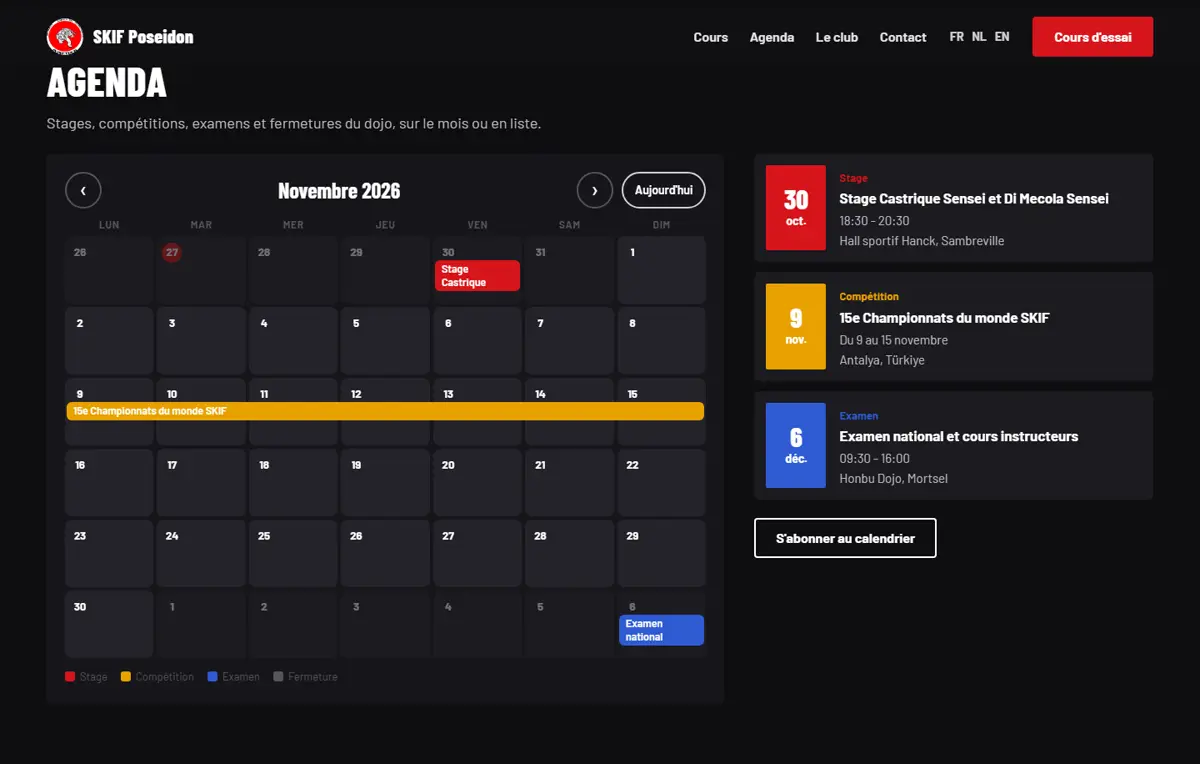
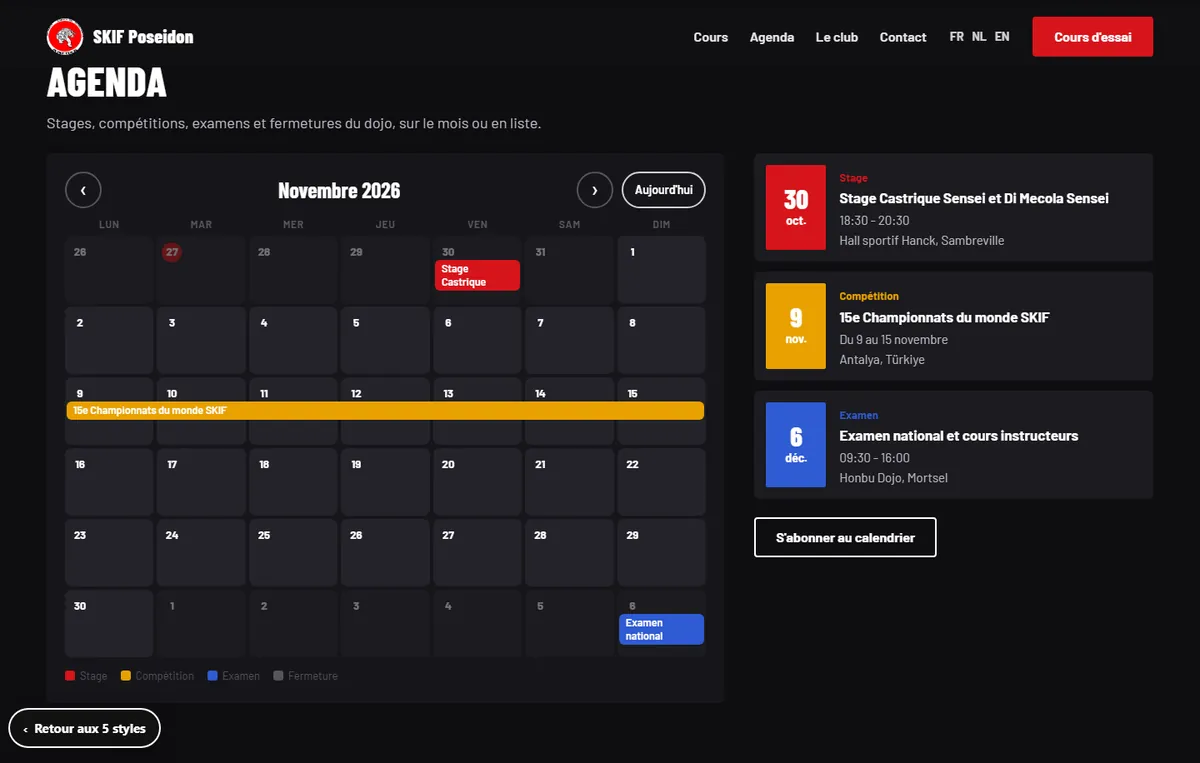
fix(mockups): back button, real mobile width, clearer choice question

diff --git a/maquettes/d.html b/maquettes/d.html
@@ -6,7 +6,8 @@ body{margin:0;background:var(--bg);color:var(--text);font-family:var(--body);fon
 img{max-width:100%;display:block}
 a{color:inherit}
 .wrap{width:100%;max-width:1440px;margin:0 auto;padding-inline:clamp(16px,4vw,56px)}
-.mock-tag{position:fixed;z-index:50;left:12px;bottom:12px;background:#111;color:#fff;font:600 12px/1 system-ui;padding:8px 10px;border-radius:6px;opacity:.85}
+.back{position:fixed;z-index:50;left:12px;bottom:12px;display:inline-flex;align-items:center;gap:8px;min-height:44px;padding:0 16px;border-radius:999px;background:#111;color:#fff;font:700 15px/1 system-ui,sans-serif;text-decoration:none;box-shadow:0 0 0 2px #fff,0 8px 24px rgba(0,0,0,.35)}
+.back:hover{background:#000}@media (max-width:640px){.back{left:8px;bottom:8px;padding:0 12px;font-size:13px}.back .long{display:none}}.back:focus-visible{outline:3px solid #ffcf5a;outline-offset:3px}
 /* nav */
 .nav{position:sticky;top:0;z-index:20;background:var(--nav-bg);color:var(--nav-text);backdrop-filter:saturate(1.4) blur(10px)}
 .nav .wrap{display:flex;align-items:center;gap:28px;height:72px}
@@ -16,6 +17,7 @@ a{color:inherit}
 @media (max-width:640px){.brand{font-size:18px;gap:8px}.brand img{width:38px;height:38px}.nav .wrap{gap:12px;height:64px}.nav .btn{min-height:44px;padding:0 16px;font-size:15px}}
 .links{display:flex;gap:26px;margin-left:auto;font-weight:600;font-size:16px}
 .links a{display:inline-flex;align-items:center;min-height:44px;text-decoration:none;opacity:.9}.links a:hover{opacity:1;text-decoration:underline;text-underline-offset:6px}
+@media (max-width:900px){.links{display:none}.langs{margin-left:auto}}
 .langs{display:flex;gap:10px;font-size:14px;font-weight:700;opacity:.8}
 .btn{display:inline-flex;align-items:center;justify-content:center;min-height:48px;padding:0 24px;border-radius:var(--radius-btn);font-weight:700;font-size:16px;text-decoration:none;border:2px solid transparent;white-space:nowrap;transition:transform .15s}
 .btn:active{transform:translateY(1px)}
@@ -48,7 +50,8 @@ h2{font-family:var(--display);font-size:clamp(30px,3.4vw,52px);line-height:1.04;
 .legend i{display:inline-block;width:14px;height:14px;border-radius:4px;margin-right:6px;vertical-align:-2px}
 @media (max-width:1180px){.week{grid-template-columns:repeat(3,minmax(0,1fr))}}
 @media (max-width:760px){
-  .chips{flex-direction:column;align-items:stretch}
+  .chips{flex-direction:column;flex-wrap:nowrap;align-items:stretch}
+  .chip-row{min-width:0;max-width:calc(100% + 2 * clamp(16px,4vw,56px))}
   .chip-row{flex-wrap:nowrap;overflow-x:auto;scrollbar-width:none;margin-inline:calc(-1 * clamp(16px,4vw,56px));padding-inline:clamp(16px,4vw,56px)}
   .week{grid-template-columns:1fr;gap:10px}
   .day{padding:12px 14px;gap:6px}
@@ -144,9 +147,10 @@ footer .wrap{display:flex;flex-wrap:wrap;gap:24px 60px;justify-content:space-bet
 .hero .ink::after{content:"";position:absolute;right:-18px;bottom:-18px;width:86px;height:86px;border-radius:50%;background:#c8102e;mix-blend-mode:multiply}
 .hero .tate{writing-mode:vertical-rl;font-size:clamp(40px,min(4.4vw,8vh),72px);font-weight:900;letter-spacing:.15em;line-height:1;margin:0;color:#1c1c1c}
 @media (max-width:900px){.hero .wrap{grid-template-columns:1fr}.hero .tate{display:none}}
+@media (max-width:640px){.hero{padding-top:22px;padding-bottom:20px}.hero p{margin-bottom:18px}.hero .btn-row{margin-top:0}.hero .btn{padding:0 18px}.hero .ink img{aspect-ratio:16/9;max-height:24vh}.hero .ink::after{width:56px;height:56px;right:-10px;bottom:-10px}}
 .day,.calendar,.event{border:1px solid #1c1c1c}
 </style></head>
-<body><header class="nav"><div class="wrap"><a class="brand" href="#"><img src="img/logo-poseidon-320.webp" alt="">SKIF Poseidon</a>
+<body><a class="back" href="index.html"><span aria-hidden="true">&lsaquo;</span><span>Retour<span class="long"> aux 5 styles</span></span></a><header class="nav"><div class="wrap"><a class="brand" href="#"><img src="img/logo-poseidon-320.webp" alt="">SKIF Poseidon</a>
 <nav class="links"><a href="#cours">Cours</a><a href="#agenda">Agenda</a><a href="#">Le club</a><a href="#">Contact</a></nav>
 <div class="langs"><span>FR</span><span>NL</span><span>EN</span></div><a class="btn btn-primary" href="#">Cours d'essai</a></div></header><section class="hero"><div class="wrap"><div><h1>Karaté Shotokan à Woluwe</h1>
 <p>Le karaté traditionnel de la SKIF, enseigné au complexe Poseidon. Enfants dès 6 ans, ados et adultes.</p>

diff --git a/maquettes/index.html b/maquettes/index.html
@@ -9,6 +9,7 @@ header p{font-size:clamp(18px,1.6vw,21px);max-width:62ch;margin:0;color:#d6d8dd}
 .steps{display:flex;flex-wrap:wrap;gap:12px;margin-top:26px;padding:0;list-style:none}
 .steps li{background:#262a30;border-radius:14px;padding:12px 18px;font-size:17px}
 .steps b{color:#ffcf5a;margin-right:6px}
+.ask{background:#15171a;color:#fff;border-radius:22px;padding:clamp(22px,4vw,40px);margin:28px 0}.ask h2{margin:0 0 8px;font-size:clamp(26px,3vw,38px)}.ask p{margin:0;color:#d6d8dd;max-width:62ch}
 .same{background:#fff;border-radius:18px;padding:18px 22px;margin:28px 0 8px;font-size:17px}
 .card{background:#fff;border-radius:22px;margin:28px 0;overflow:hidden;box-shadow:0 18px 40px -30px rgba(0,0,0,.4)}
 .card-head{display:flex;flex-wrap:wrap;align-items:center;gap:14px 24px;padding:22px clamp(18px,3vw,32px)}
@@ -34,8 +35,8 @@ footer{padding:40px 0 60px;color:#4a4f57}
 </style></head><body>
 <header><div class="wrap"><h1>Choisissez le style du nouveau site</h1>
 <p>Cinq univers pour le site du SKIF Poseidon. Regardez les images, ouvrez les maquettes sur votre téléphone, puis dites-nous votre préféré.</p>
-<ol class="steps"><li><b>1</b>Regardez les cinq univers</li><li><b>2</b>Ouvrez celui qui vous plaît</li><li><b>3</b>Envoyez la lettre à Mohamad</li></ol></div></header>
-<main class="wrap"><p class="same"><strong>Dans les cinq univers :</strong> le même contenu, la grille des cours filtrable par âge, l'agenda du mois, le cours d'essai, les trois langues et l'adaptation au téléphone. Seuls les couleurs, la typographie et l'ambiance changent. On peut aussi mélanger (par exemple les couleurs de B avec les titres de A).</p>
+<ol class="steps"><li><b>1</b>Regardez les cinq univers</li><li><b>2</b>Ouvrez celui qui vous plaît</li><li><b>3</b>Dites-nous quelle maquette vous préférez</li></ol></div></header>
+<main class="wrap"><p class="same"><strong>Dans les cinq univers :</strong> le même contenu, la grille des cours filtrable par âge, l'agenda du mois, le cours d'essai, les trois langues et l'adaptation au téléphone. Seuls les couleurs, la typographie et l'ambiance changent. On peut aussi mélanger (par exemple les couleurs de B avec les titres de A). Les photos sont placées au hasard pour l'instant : dites-nous lesquelles vous préférez, tout peut être changé.</p>
 <article class="card" style="--c:#d7141a" id="a">
 <div class="card-head"><div class="letter">A</div><div class="title"><h2>Rouge Poseidon</h2><p>Énergique, comme une affiche de compétition. Grande photo, rouge et noir.</p></div>
 <div><div class="swatches" aria-label="Couleurs"><span style="background:#d7141a" title="#d7141a"></span><span style="background:#16161a" title="#16161a"></span><span style="background:#ffffff" title="#ffffff"></span><span style="background:#e8a100" title="#e8a100"></span><span style="background:#0f8a6c" title="#0f8a6c"></span></div><div class="font">Police : Barlow Condensed</div></div></div>
@@ -66,5 +67,6 @@ footer{padding:40px 0 60px;color:#4a4f57}
 <div class="shots"><img src="shots/e-ecran.webp" alt="Univers E, premier écran sur ordinateur" loading="lazy"><div class="phone"><img src="shots/e-mobile.webp" alt="Univers E sur téléphone" loading="lazy"></div></div>
 <div class="more"><figure><img src="shots/e-cours.webp" alt="Grille de la semaine, univers E" loading="lazy"><figcaption>La semaine des cours, filtrable par âge</figcaption></figure>
 <figure><img src="shots/e-agenda.webp" alt="Agenda du mois, univers E" loading="lazy"><figcaption>L'agenda du mois et les prochains rendez-vous</figcaption></figure></div>
-<div class="actions"><a class="btn" href="e.html">Essayer la maquette E</a></div></article></main>
+<div class="actions"><a class="btn" href="e.html">Essayer la maquette E</a></div></article>
+<section class="ask"><h2>Quelle maquette préférez-vous ?</h2><p>Répondez simplement avec la lettre (A, B, C, D ou E). Dites-nous aussi ce que vous aimez ou pas : les couleurs, les titres, les photos. On peut tout ajuster.</p></section></main>
 <footer><div class="wrap">Maquettes de démonstration. Horaires publiés par SKIF Belgium, à confirmer par le club. Photos : site du club SKIF Poseidon.</div></footer></body></html>

diff --git a/maquettes/a.html b/maquettes/a.html
@@ -6,7 +6,8 @@ body{margin:0;background:var(--bg);color:var(--text);font-family:var(--body);fon
 img{max-width:100%;display:block}
 a{color:inherit}
 .wrap{width:100%;max-width:1440px;margin:0 auto;padding-inline:clamp(16px,4vw,56px)}
-.mock-tag{position:fixed;z-index:50;left:12px;bottom:12px;background:#111;color:#fff;font:600 12px/1 system-ui;padding:8px 10px;border-radius:6px;opacity:.85}
+.back{position:fixed;z-index:50;left:12px;bottom:12px;display:inline-flex;align-items:center;gap:8px;min-height:44px;padding:0 16px;border-radius:999px;background:#111;color:#fff;font:700 15px/1 system-ui,sans-serif;text-decoration:none;box-shadow:0 0 0 2px #fff,0 8px 24px rgba(0,0,0,.35)}
+.back:hover{background:#000}@media (max-width:640px){.back{left:8px;bottom:8px;padding:0 12px;font-size:13px}.back .long{display:none}}.back:focus-visible{outline:3px solid #ffcf5a;outline-offset:3px}
 /* nav */
 .nav{position:sticky;top:0;z-index:20;background:var(--nav-bg);color:var(--nav-text);backdrop-filter:saturate(1.4) blur(10px)}
 .nav .wrap{display:flex;align-items:center;gap:28px;height:72px}
@@ -16,6 +17,7 @@ a{color:inherit}
 @media (max-width:640px){.brand{font-size:18px;gap:8px}.brand img{width:38px;height:38px}.nav .wrap{gap:12px;height:64px}.nav .btn{min-height:44px;padding:0 16px;font-size:15px}}
 .links{display:flex;gap:26px;margin-left:auto;font-weight:600;font-size:16px}
 .links a{display:inline-flex;align-items:center;min-height:44px;text-decoration:none;opacity:.9}.links a:hover{opacity:1;text-decoration:underline;text-underline-offset:6px}
+@media (max-width:900px){.links{display:none}.langs{margin-left:auto}}
 .langs{display:flex;gap:10px;font-size:14px;font-weight:700;opacity:.8}
 .btn{display:inline-flex;align-items:center;justify-content:center;min-height:48px;padding:0 24px;border-radius:var(--radius-btn);font-weight:700;font-size:16px;text-decoration:none;border:2px solid transparent;white-space:nowrap;transition:transform .15s}
 .btn:active{transform:translateY(1px)}
@@ -48,7 +50,8 @@ h2{font-family:var(--display);font-size:clamp(30px,3.4vw,52px);line-height:1.04;
 .legend i{display:inline-block;width:14px;height:14px;border-radius:4px;margin-right:6px;vertical-align:-2px}
 @media (max-width:1180px){.week{grid-template-columns:repeat(3,minmax(0,1fr))}}
 @media (max-width:760px){
-  .chips{flex-direction:column;align-items:stretch}
+  .chips{flex-direction:column;flex-wrap:nowrap;align-items:stretch}
+  .chip-row{min-width:0;max-width:calc(100% + 2 * clamp(16px,4vw,56px))}
   .chip-row{flex-wrap:nowrap;overflow-x:auto;scrollbar-width:none;margin-inline:calc(-1 * clamp(16px,4vw,56px));padding-inline:clamp(16px,4vw,56px)}
   .week{grid-template-columns:1fr;gap:10px}
   .day{padding:12px 14px;gap:6px}
@@ -148,7 +151,7 @@ footer .wrap{display:flex;flex-wrap:wrap;gap:24px 60px;justify-content:space-bet
 @media (max-width:760px){.next{position:static;margin:18px 0 0}.hero{min-height:auto;padding-top:120px}}
 .sec-agenda{background:#0e0e11;color:#fff}.sec-agenda .lead{color:#b9b9c2}.sec-agenda .event{background:#1b1b20}.sec-agenda .event p{color:#b9b9c2}.sec-agenda .btn-ghost{color:#fff}
 </style></head>
-<body><header class="nav"><div class="wrap"><a class="brand" href="#"><img src="img/logo-poseidon-320.webp" alt="">SKIF Poseidon</a>
+<body><a class="back" href="index.html"><span aria-hidden="true">&lsaquo;</span><span>Retour<span class="long"> aux 5 styles</span></span></a><header class="nav"><div class="wrap"><a class="brand" href="#"><img src="img/logo-poseidon-320.webp" alt="">SKIF Poseidon</a>
 <nav class="links"><a href="#cours">Cours</a><a href="#agenda">Agenda</a><a href="#">Le club</a><a href="#">Contact</a></nav>
 <div class="langs"><span>FR</span><span>NL</span><span>EN</span></div><a class="btn btn-primary" href="#">Cours d'essai</a></div></header><section class="hero"><img src="img/dojo-kamiza-1600.webp" alt="Trois ceintures noires du dojo Poseidon devant le kamiza"><div class="wrap">
 <h1>Karaté Shotokan <span>à Woluwe</span></h1><p>Le karaté traditionnel de la SKIF, pour les enfants dès 6 ans, les ados et les adultes. Du premier cours à la ceinture noire.</p>

diff --git a/maquettes/b.html b/maquettes/b.html
@@ -6,7 +6,8 @@ body{margin:0;background:var(--bg);color:var(--text);font-family:var(--body);fon
 img{max-width:100%;display:block}
 a{color:inherit}
 .wrap{width:100%;max-width:1440px;margin:0 auto;padding-inline:clamp(16px,4vw,56px)}
-.mock-tag{position:fixed;z-index:50;left:12px;bottom:12px;background:#111;color:#fff;font:600 12px/1 system-ui;padding:8px 10px;border-radius:6px;opacity:.85}
+.back{position:fixed;z-index:50;left:12px;bottom:12px;display:inline-flex;align-items:center;gap:8px;min-height:44px;padding:0 16px;border-radius:999px;background:#111;color:#fff;font:700 15px/1 system-ui,sans-serif;text-decoration:none;box-shadow:0 0 0 2px #fff,0 8px 24px rgba(0,0,0,.35)}
+.back:hover{background:#000}@media (max-width:640px){.back{left:8px;bottom:8px;padding:0 12px;font-size:13px}.back .long{display:none}}.back:focus-visible{outline:3px solid #ffcf5a;outline-offset:3px}
 /* nav */
 .nav{position:sticky;top:0;z-index:20;background:var(--nav-bg);color:var(--nav-text);backdrop-filter:saturate(1.4) blur(10px)}
 .nav .wrap{display:flex;align-items:center;gap:28px;height:72px}
@@ -16,6 +17,7 @@ a{color:inherit}
 @media (max-width:640px){.brand{font-size:18px;gap:8px}.brand img{width:38px;height:38px}.nav .wrap{gap:12px;height:64px}.nav .btn{min-height:44px;padding:0 16px;font-size:15px}}
 .links{display:flex;gap:26px;margin-left:auto;font-weight:600;font-size:16px}
 .links a{display:inline-flex;align-items:center;min-height:44px;text-decoration:none;opacity:.9}.links a:hover{opacity:1;text-decoration:underline;text-underline-offset:6px}
+@media (max-width:900px){.links{display:none}.langs{margin-left:auto}}
 .langs{display:flex;gap:10px;font-size:14px;font-weight:700;opacity:.8}
 .btn{display:inline-flex;align-items:center;justify-content:center;min-height:48px;padding:0 24px;border-radius:var(--radius-btn);font-weight:700;font-size:16px;text-decoration:none;border:2px solid transparent;white-space:nowrap;transition:transform .15s}
 .btn:active{transform:translateY(1px)}
@@ -48,7 +50,8 @@ h2{font-family:var(--display);font-size:clamp(30px,3.4vw,52px);line-height:1.04;
 .legend i{display:inline-block;width:14px;height:14px;border-radius:4px;margin-right:6px;vertical-align:-2px}
 @media (max-width:1180px){.week{grid-template-columns:repeat(3,minmax(0,1fr))}}
 @media (max-width:760px){
-  .chips{flex-direction:column;align-items:stretch}
+  .chips{flex-direction:column;flex-wrap:nowrap;align-items:stretch}
+  .chip-row{min-width:0;max-width:calc(100% + 2 * clamp(16px,4vw,56px))}
   .chip-row{flex-wrap:nowrap;overflow-x:auto;scrollbar-width:none;margin-inline:calc(-1 * clamp(16px,4vw,56px));padding-inline:clamp(16px,4vw,56px)}
   .week{grid-template-columns:1fr;gap:10px}
   .day{padding:12px 14px;gap:6px}
@@ -144,7 +147,7 @@ footer .wrap{display:flex;flex-wrap:wrap;gap:24px 60px;justify-content:space-bet
 @media (max-width:860px){.hero{grid-template-columns:1fr;max-height:none}.hero .photo{min-height:200px;max-height:220px;order:-1}.hero .text::after{display:none}.hero .kanji{display:none}.hero .text{padding-block:24px 76px}}
 .sec-agenda{background:#1c2850;color:#f3f1ec}.sec-agenda .lead{color:#c3c9de}.sec-agenda .btn-ghost{color:#fff}.sec-agenda .calendar{color:#141b33}
 </style></head>
-<body><header class="nav"><div class="wrap"><a class="brand" href="#"><img src="img/logo-poseidon-320.webp" alt="">SKIF Poseidon</a>
+<body><a class="back" href="index.html"><span aria-hidden="true">&lsaquo;</span><span>Retour<span class="long"> aux 5 styles</span></span></a><header class="nav"><div class="wrap"><a class="brand" href="#"><img src="img/logo-poseidon-320.webp" alt="">SKIF Poseidon</a>
 <nav class="links"><a href="#cours">Cours</a><a href="#agenda">Agenda</a><a href="#">Le club</a><a href="#">Contact</a></nav>
 <div class="langs"><span>FR</span><span>NL</span><span>EN</span></div><a class="btn btn-primary" href="#">Cours d'essai</a></div></header><section class="hero"><div class="text"><h1>Karaté Shotokan à Woluwe</h1>
 <p>Le karaté traditionnel de la SKIF, enseigné au complexe Poseidon. Enfants dès 6 ans, ados et adultes, du premier cours à la ceinture noire.</p>

diff --git a/maquettes/e.html b/maquettes/e.html
@@ -6,7 +6,8 @@ body{margin:0;background:var(--bg);color:var(--text);font-family:var(--body);fon
 img{max-width:100%;display:block}
 a{color:inherit}
 .wrap{width:100%;max-width:1440px;margin:0 auto;padding-inline:clamp(16px,4vw,56px)}
-.mock-tag{position:fixed;z-index:50;left:12px;bottom:12px;background:#111;color:#fff;font:600 12px/1 system-ui;padding:8px 10px;border-radius:6px;opacity:.85}
+.back{position:fixed;z-index:50;left:12px;bottom:12px;display:inline-flex;align-items:center;gap:8px;min-height:44px;padding:0 16px;border-radius:999px;background:#111;color:#fff;font:700 15px/1 system-ui,sans-serif;text-decoration:none;box-shadow:0 0 0 2px #fff,0 8px 24px rgba(0,0,0,.35)}
+.back:hover{background:#000}@media (max-width:640px){.back{left:8px;bottom:8px;padding:0 12px;font-size:13px}.back .long{display:none}}.back:focus-visible{outline:3px solid #ffcf5a;outline-offset:3px}
 /* nav */
 .nav{position:sticky;top:0;z-index:20;background:var(--nav-bg);color:var(--nav-text);backdrop-filter:saturate(1.4) blur(10px)}
 .nav .wrap{display:flex;align-items:center;gap:28px;height:72px}
@@ -16,6 +17,7 @@ a{color:inherit}
 @media (max-width:640px){.brand{font-size:18px;gap:8px}.brand img{width:38px;height:38px}.nav .wrap{gap:12px;height:64px}.nav .btn{min-height:44px;padding:0 16px;font-size:15px}}
 .links{display:flex;gap:26px;margin-left:auto;font-weight:600;font-size:16px}
 .links a{display:inline-flex;align-items:center;min-height:44px;text-decoration:none;opacity:.9}.links a:hover{opacity:1;text-decoration:underline;text-underline-offset:6px}
+@media (max-width:900px){.links{display:none}.langs{margin-left:auto}}
 .langs{display:flex;gap:10px;font-size:14px;font-weight:700;opacity:.8}
 .btn{display:inline-flex;align-items:center;justify-content:center;min-height:48px;padding:0 24px;border-radius:var(--radius-btn);font-weight:700;font-size:16px;text-decoration:none;border:2px solid transparent;white-space:nowrap;transition:transform .15s}
 .btn:active{transform:translateY(1px)}
@@ -48,7 +50,8 @@ h2{font-family:var(--display);font-size:clamp(30px,3.4vw,52px);line-height:1.04;
 .legend i{display:inline-block;width:14px;height:14px;border-radius:4px;margin-right:6px;vertical-align:-2px}
 @media (max-width:1180px){.week{grid-template-columns:repeat(3,minmax(0,1fr))}}
 @media (max-width:760px){
-  .chips{flex-direction:column;align-items:stretch}
+  .chips{flex-direction:column;flex-wrap:nowrap;align-items:stretch}
+  .chip-row{min-width:0;max-width:calc(100% + 2 * clamp(16px,4vw,56px))}
   .chip-row{flex-wrap:nowrap;overflow-x:auto;scrollbar-width:none;margin-inline:calc(-1 * clamp(16px,4vw,56px));padding-inline:clamp(16px,4vw,56px)}
   .week{grid-template-columns:1fr;gap:10px}
   .day{padding:12px 14px;gap:6px}
@@ -144,7 +147,7 @@ footer .wrap{display:flex;flex-wrap:wrap;gap:24px 60px;justify-content:space-bet
 .hero .btn-ghost{color:#ececee;border-color:#55555e}
 .cal-nav{border-color:#3a3a42}
 </style></head>
-<body><header class="nav"><div class="wrap"><a class="brand" href="#"><img src="img/logo-poseidon-320.webp" alt="">SKIF Poseidon</a>
+<body><a class="back" href="index.html"><span aria-hidden="true">&lsaquo;</span><span>Retour<span class="long"> aux 5 styles</span></span></a><header class="nav"><div class="wrap"><a class="brand" href="#"><img src="img/logo-poseidon-320.webp" alt="">SKIF Poseidon</a>
 <nav class="links"><a href="#cours">Cours</a><a href="#agenda">Agenda</a><a href="#">Le club</a><a href="#">Contact</a></nav>
 <div class="langs"><span>FR</span><span>NL</span><span>EN</span></div><a class="btn btn-primary" href="#">Cours d'essai</a></div></header><section class="hero"><img src="img/dojo-kamiza-1600.webp" alt="Trois ceintures noires du dojo Poseidon devant le kamiza"><div class="wrap">
 <h1>Karaté Shotokan <span>à Woluwe</span></h1><p>Le karaté traditionnel de la SKIF au complexe Poseidon. Enfants dès 6 ans, ados et adultes, du premier cours à la ceinture noire.</p>

diff --git a/maquettes/c.html b/maquettes/c.html
@@ -6,7 +6,8 @@ body{margin:0;background:var(--bg);color:var(--text);font-family:var(--body);fon
 img{max-width:100%;display:block}
 a{color:inherit}
 .wrap{width:100%;max-width:1440px;margin:0 auto;padding-inline:clamp(16px,4vw,56px)}
-.mock-tag{position:fixed;z-index:50;left:12px;bottom:12px;background:#111;color:#fff;font:600 12px/1 system-ui;padding:8px 10px;border-radius:6px;opacity:.85}
+.back{position:fixed;z-index:50;left:12px;bottom:12px;display:inline-flex;align-items:center;gap:8px;min-height:44px;padding:0 16px;border-radius:999px;background:#111;color:#fff;font:700 15px/1 system-ui,sans-serif;text-decoration:none;box-shadow:0 0 0 2px #fff,0 8px 24px rgba(0,0,0,.35)}
+.back:hover{background:#000}@media (max-width:640px){.back{left:8px;bottom:8px;padding:0 12px;font-size:13px}.back .long{display:none}}.back:focus-visible{outline:3px solid #ffcf5a;outline-offset:3px}
 /* nav */
 .nav{position:sticky;top:0;z-index:20;background:var(--nav-bg);color:var(--nav-text);backdrop-filter:saturate(1.4) blur(10px)}
 .nav .wrap{display:flex;align-items:center;gap:28px;height:72px}
@@ -16,6 +17,7 @@ a{color:inherit}
 @media (max-width:640px){.brand{font-size:18px;gap:8px}.brand img{width:38px;height:38px}.nav .wrap{gap:12px;height:64px}.nav .btn{min-height:44px;padding:0 16px;font-size:15px}}
 .links{display:flex;gap:26px;margin-left:auto;font-weight:600;font-size:16px}
 .links a{display:inline-flex;align-items:center;min-height:44px;text-decoration:none;opacity:.9}.links a:hover{opacity:1;text-decoration:underline;text-underline-offset:6px}
+@media (max-width:900px){.links{display:none}.langs{margin-left:auto}}
 .langs{display:flex;gap:10px;font-size:14px;font-weight:700;opacity:.8}
 .btn{display:inline-flex;align-items:center;justify-content:center;min-height:48px;padding:0 24px;border-radius:var(--radius-btn);font-weight:700;font-size:16px;text-decoration:none;border:2px solid transparent;white-space:nowrap;transition:transform .15s}
 .btn:active{transform:translateY(1px)}
@@ -48,7 +50,8 @@ h2{font-family:var(--display);font-size:clamp(30px,3.4vw,52px);line-height:1.04;
 .legend i{display:inline-block;width:14px;height:14px;border-radius:4px;margin-right:6px;vertical-align:-2px}
 @media (max-width:1180px){.week{grid-template-columns:repeat(3,minmax(0,1fr))}}
 @media (max-width:760px){
-  .chips{flex-direction:column;align-items:stretch}
+  .chips{flex-direction:column;flex-wrap:nowrap;align-items:stretch}
+  .chip-row{min-width:0;max-width:calc(100% + 2 * clamp(16px,4vw,56px))}
   .chip-row{flex-wrap:nowrap;overflow-x:auto;scrollbar-width:none;margin-inline:calc(-1 * clamp(16px,4vw,56px));padding-inline:clamp(16px,4vw,56px)}
   .week{grid-template-columns:1fr;gap:10px}
   .day{padding:12px 14px;gap:6px}
@@ -148,7 +151,7 @@ footer .wrap{display:flex;flex-wrap:wrap;gap:24px 60px;justify-content:space-bet
 .day{box-shadow:0 1px 0 rgba(17,24,39,.04)}
 .calendar,.event{box-shadow:0 10px 30px -20px rgba(17,24,39,.25)}
 </style></head>
-<body><header class="nav"><div class="wrap"><a class="brand" href="#"><img src="img/logo-poseidon-320.webp" alt="">SKIF Poseidon</a>
+<body><a class="back" href="index.html"><span aria-hidden="true">&lsaquo;</span><span>Retour<span class="long"> aux 5 styles</span></span></a><header class="nav"><div class="wrap"><a class="brand" href="#"><img src="img/logo-poseidon-320.webp" alt="">SKIF Poseidon</a>
 <nav class="links"><a href="#cours">Cours</a><a href="#agenda">Agenda</a><a href="#">Le club</a><a href="#">Contact</a></nav>
 <div class="langs"><span>FR</span><span>NL</span><span>EN</span></div><a class="btn btn-primary" href="#">Cours d'essai</a></div></header><section class="hero"><div class="wrap"><div><h1>Karaté Shotokan <em>à Woluwe</em></h1>
 <p>Le karaté traditionnel de la SKIF au complexe Poseidon. Enfants dès 6 ans, ados et adultes, du premier cours à la ceinture noire.</p>
